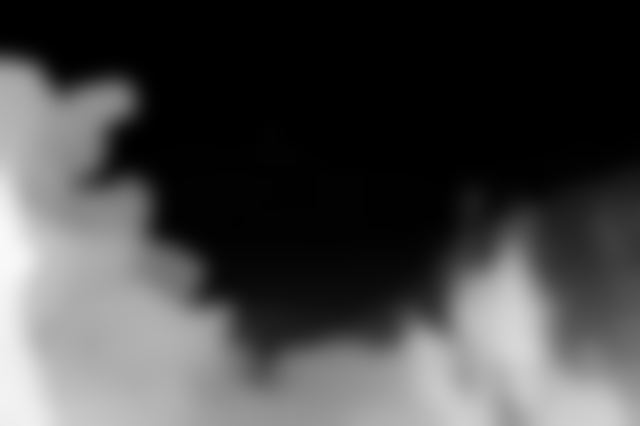
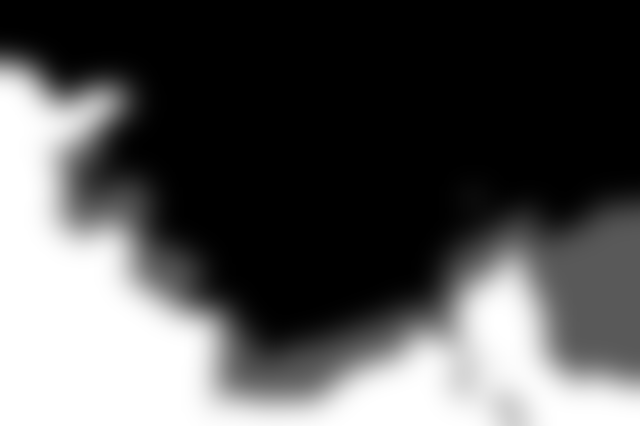
Polaris 첫 화면 입체: 깊이 지도를 세 판(하늘·도시 / 능선 / 앞 소나무)으로 나눠 판마다 통째로
판 안에서 깊이가 픽셀마다 다르면 잎이 소용돌이처럼 일그러진다. 경계는 밀리는 거리보다 넓게 뭉갬.
깊이 지도 주소에 ?v=3 (예전 지도가 캐시에 남지 않게)

Claude-Session: https://claude.ai/code/session_01DdAt1ofbNS1MDTDVmK7oAP

diff --git a/chat/index.html b/chat/index.html
@@ -499,7 +499,8 @@ document.querySelectorAll('.login').forEach((b) => b.addEventListener('click', a
   location.href = '/#intranet';
 }));
 
-// 첫 화면 사진 입체: 깊이 지도(1=가까움, 잎 사이로 일렁이지 않게 앞쪽을 넓히고 크게 뭉갬)로 앞 소나무·도시·하늘을 다른 속도로 움직인다 (assets/dipper.html과 같은 방식)
+// 첫 화면 사진 입체: 깊이 지도를 세 판(하늘·도시 0, 가운데 능선 .35, 앞 소나무 1)으로 나눠 판마다 통째로 움직인다.
+// 판 안은 깊이가 평평해야 잎이 일렁이지 않는다. 깊이 지도(1=가까움)로 앞 소나무·도시·하늘을 다른 속도로 움직인다 (assets/dipper.html과 같은 방식)
 // 처음 12초는 천천히 다가서며 저절로 흔들리고, 그 뒤로는 마우스를 따라서만 움직인다. 동작 줄이기 설정이면 사진 그대로
 (() => {
   const hero = $('hero'), cv = $('hero3d');
@@ -509,7 +510,7 @@ document.querySelectorAll('.login').forEach((b) => b.addEventListener('click', a
   const mob = innerWidth <= 760;
   const img = new Image(), dimg = new Image();
   img.src = mob ? '/assets/hero/polaris-m.webp' : '/assets/hero/polaris.webp';
-  dimg.src = mob ? '/assets/hero/polaris-depth-m.png' : '/assets/hero/polaris-depth.png';
+  dimg.src = mob ? '/assets/hero/polaris-depth-m.png?v=3' : '/assets/hero/polaris-depth.png?v=3';   // 깊이 지도를 바꾸면 v를 올린다 (예전 지도가 캐시에 남지 않게)
   const vs = 'attribute vec2 p;void main(){gl_Position=vec4(p,0.,1.);}';
   const fs = `precision highp float;
     uniform sampler2D I,D; uniform vec2 R,S,M; uniform float Z,Y,A;
